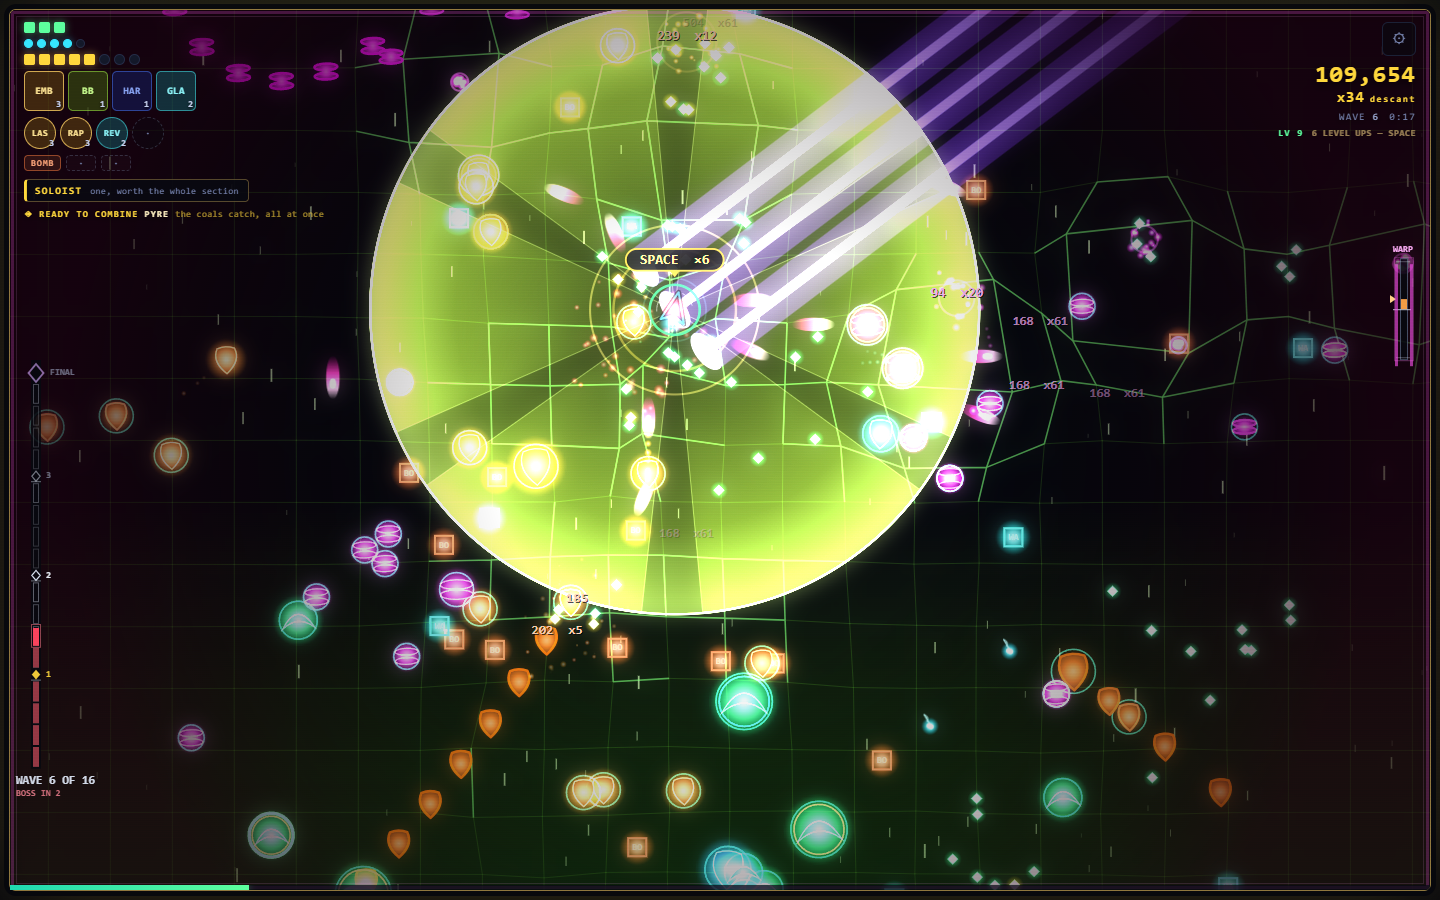
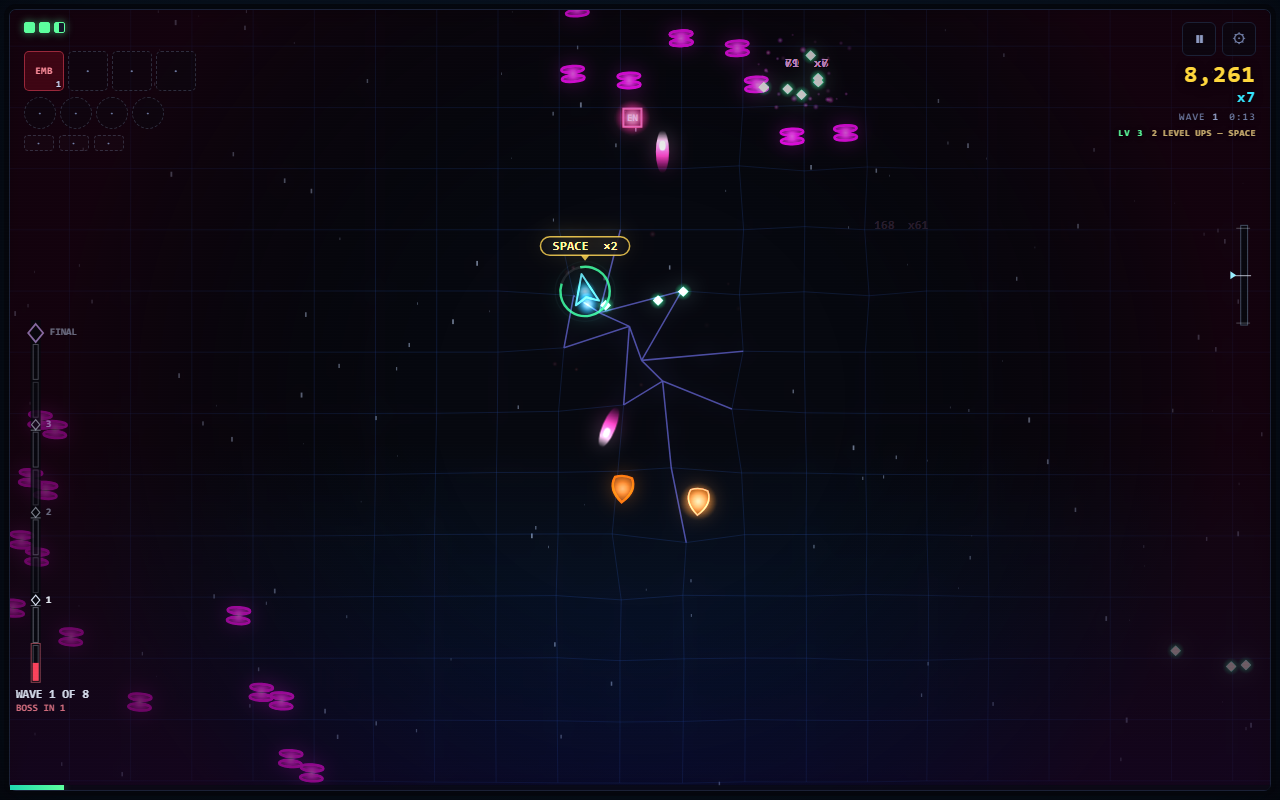
README: half the length, a screenshot of the HUD as it now is
The prose had gone stale in five places and none of them were small: it
still said sixteen waves in four acts with a boss every fourth, twelve
stages of sixteen waves each, warp at "about 9x", a touch row carrying
FOCUS/BOMB/WELL, and X/C keys for a bomb and a black hole. The run is
eight waves with a boss every second one, warp is +50% spawn rate, and
the bombs and wells were deleted yesterday.

Localhost instructions are gone: the game is played at the Pages URL,
which is now the second line of the file.

Numbers re-measured rather than carried over: 30 draftable instruments
(133 defs minus the 103 fused results), 435 pairs, 12 rig items, 8+8
starters, 243 tools in tools/. The two sample figures are wire bytes
(KIT_WIRE_BYTES 266,688 and TOTAL_WIRE_BYTES 9,694) and now say so,
because sitting next to a file path they read as file sizes, which they
are not.

The screenshot was from before lives, stock and shields came out, so it
showed HUD rows that no longer exist. Re-shot from tools/shots.mjs.

126 lines -> 96.

diff --git a/README.md b/README.md
@@ -1,119 +1,87 @@
 # MusicWars
 
-A bullet hell whose soundtrack is not a file. There is no recorded music in
-this repository — not one loop, not one bar. Every note is decided in the
+A bullet hell whose soundtrack is not a file. Every note is decided in the
 browser by [Strudel](https://strudel.cc) and arranged in real time from what is
-happening on screen.
+happening on screen — the weapons you hold are the instruments playing.
 
-Almost all of it is synthesis — oscillators and noise. Two things are sampled,
-and both are fetched at runtime with a synthesised fallback underneath. The
-**drum kit** is nine one-shots from Strudel's drum-machine set — a Roland TR-909
-kick, snare, clap, closed and open hat and rim, an 808 kick and cabasa, a
-LinnDrum hat — 267 KB in all, landing about a quarter of a second after START
-on a warm connection and about three seconds cold; until then, and offline for
-good, the oscillator kit plays (`src/audio/samples.ts`). The other is the
-**bass**, which plays a sampled fingered electric bass
-(`gm_electric_bass_finger`) fetched at runtime from
-[webaudiofontdata](https://felixroos.github.io/webaudiofontdata/): one file,
-9.7 KB gzipped. Nothing waits for it — the game starts on the sawtooth that lane
-always used and swaps the instrument in underneath once the samples are decoded
-— under a second warm, about four seconds cold, measured with all seven roles'
-fonts loading (`src/audio/soundfonts.ts`) — and **if the fetch fails the lane
-keeps its sawtooth**, so the game works with no network at all.
-
-Four other instruments are mapped and ready in
-[`src/audio/soundfonts.ts`](src/audio/soundfonts.ts) and are switched OFF: a
-build that put an oboe on the melody and a choir on the harmony was heard and
-described as "carnival". The table records what each would be and why; enabling
-one is a single line. `node tools/fontcheck.mjs --spectrum` is the measurement.
-
-**The ensemble on stage is the mix.** Each weapon you hold is an instrument
-playing its part, each enemy archetype has a motif, and the density of the
-screen drives the tension model that decides how hard the track goes.
+**[Play it here.](https://dnzckn.github.io/MusicWars/)** Works on a phone; add it
+to your home screen for a full-screen launch.
 
 ![MusicWars](docs/img/gameplay.png)
 
-Play it in a browser at <https://dnzckn.github.io/MusicWars/> — built from
-`master` by the Pages workflow on every push, so it is always the current
-tree. Or run it locally:
+## Controls
 
-```bash
-npm install && npm run dev
-```
+The ship never stops — you only choose how fast.
 
-Then open <http://localhost:5173>. The ship never stops: **W**/**S** are a
-throttle, **A**/**D** or the arrows steer, and the band fires on its own. With a
-mouse or a finger the throttle is binary: hold to boost (hold 1.4 s to warp),
-let go to cruise, and drag backwards while holding to brake; the cursor's side
-of the ship, or the finger's, steers. On a phone the touch row carries FOCUS,
-BOMB and WELL, a LEVEL UP button whenever a level is banked, and the offer's
-REROLL, BANISH and SKIP; a pause button sits beside the settings gear.
-**Shift** focuses, **X** bombs, **C** opens a black hole, and **Space** spends
-the level-ups you have banked. Hold **W** for 1.4 s to WARP — the wave clock
-runs about 9× faster, the stage floods, and the boss comes sooner.
+- **Hold** to boost, with the mouse button or a finger. **Let go** to cruise.
+- **Drag backwards** while holding to brake.
+- The cursor's side of the ship — or the finger's — steers.
+- Hold the boost **1.4 s to WARP**: the stage spawns 50% faster until you pull
+  back. It is the difficulty dial, mid-run.
+- Firing is automatic.
 
----
+Keyboard: **W**/**S** throttle, **A**/**D** steer, **Shift** focus, **Space**
+spends banked level-ups, **P** pauses. On a phone those last two are buttons.
 
-## The game
+## The run
 
-A bullet hell on a treadmill. The field is 3000 wide and unbounded along the
-track; the camera is a rail along the track that follows you across it. Enemies
-never shoot: they come from behind you, they hurt you by touching you, and they
-are slower than you are — dozens on screen in normal play, hundreds alive under
-warp. Killing them drops XP; each level banks an offer of four cards.
+Eight waves, a boss every second one. Three minis, then THE FINAL SET, and
+beating it wins. Enemies never shoot: they arrive from behind you, they are
+slower than you are, and they hurt you by touching you.
 
-A run is 16 waves in four acts, with a boss every fourth wave — three minis and
-then THE FINAL SET, and beating it ends the run. Runs are stages on a set list:
-twelve of them, each the same sixteen waves under more pressure, and every run
-pays points to spend in the shop between them.
+Health is one bar of three units. An ordinary hit costs half a unit, a boss
+costs a whole one, so six touches or three from a conductor.
 
-**30 instruments** built from composable properties — burn, freeze, poison,
-bleed, chain, slow, split, leech, quake — and **103 authored arrangements**
-made by fusing an instrument with a rig item or with another instrument. Every
-one of the 435 instrument pairs combines into something; the unauthored ones
-inherit both parents' properties. A new save drafts 8 of the instruments and 8
-of the 12 rig items; the rest are bought in the shop.
+Killing things drops XP, and each level banks a choice of four cards. You hold
+four instruments and four rig items, so once the chairs are full the only way to
+grow is to fuse what you already have — which frees a chair. **30 instruments**
+built from composable properties (burn, freeze, chain, leech, quake and the
+rest) and **103 authored arrangements**; all 435 pairs combine into something,
+the unauthored ones inheriting both parents.
 
-Fusing frees a slot. You hold four instruments and four rig items, so the only
-way to keep growing is to combine what you already have.
+Runs are stages on a set list — twelve of them, the same eight waves under more
+pressure — and each run pays points into a shop that unlocks the rest of the
+roster. A new save starts with 8 instruments and 8 rig items.
 
-The design owes its shape to Vampire Survivors and Ball x Pit, and the weapon
-mechanics are ported from them rather than invented — see
+The design owes its shape to Vampire Survivors and Ball x Pit; see
 [`docs/plan-refactor-3.md`](docs/plan-refactor-3.md) §9.
 
 ## The music
 
-`src/audio/layers.ts` builds every lane; `src/audio/director.ts` turns game
-state into musical state. The simulation never talks to Strudel — it emits
-events and publishes a numeric snapshot, and the director reads it.
+`src/audio/layers.ts` builds every lane and `src/audio/director.ts` turns game
+state into musical state. The simulation never talks to Strudel: it emits events
+and publishes a numeric snapshot, and the director reads that.
 
-The bass is the protagonist: the sampled pluck with a wobble under it. A motor
-pulse keeps the clock and never drops out, a stab comps the chord's guide
-tones, the lead is the line that follows you, and the kit plays around them.
+The bass is the protagonist, a sampled pluck with a wobble under it. A motor
+pulse keeps the clock, a stab comps the chord's guide tones, the lead follows
+you, and the kit plays around them. Enemy archetypes carry motifs, and how
+crowded the screen is decides how hard the track goes.
+
+Two things are sampled, and both stream at runtime with a synthesised fallback
+underneath so the game still plays offline: a nine-piece drum-machine kit
+(267 KB on the wire) and a fingered electric bass (9.7 KB). Everything else is
+oscillators and noise.
 
 Weapons are lanes in the mix, so a loadout is audible. Some read the transport
-back: RASP fires only on the off-beat, SORDINO silences two of your own lanes
-for two bars and banks the damage, INTERLUDE takes the whole band out for two
-bars.
+back: RASP fires only on the off-beat, SORDINO silences two of your own lanes to
+bank the damage, INTERLUDE takes the whole band out for two bars.
 
-## Development
+## Working on it
 
 ```bash
-npm run dev        # vite, localhost:5173
-npm run build      # typecheck + bundle
-npm run verify     # the full gate suite
+npm install
+npm run build     # typecheck + bundle
+npm run verify    # the gate suite
 ```
 
-Around 200 verification tools live in `tools/`, most written after a specific
+Over 240 verification tools live in `tools/`, most written after a specific
 defect got past the previous ones. `tools/capture.mjs` renders the real audio
-chain to a WAV; `tools/arena.mjs` plays 20-minute bot runs and reports density
-and encirclement; `tools/builds.mjs` measures whether the card you pick changes
-the run.
+chain to a WAV; `tools/arena.mjs` plays bot runs and reports density and
+encirclement; `tools/builds.mjs` measures whether the card you pick changes the
+run.
 
 **Read [`AGENTS.md`](AGENTS.md) before changing anything.** It records the traps
 — several "obvious" improvements are documented there as measured failures.
-
-## Layout
 
 | path | what it is |
 |---|---|
@@ -124,3 +92,5 @@ the run.
 | `src/render/` | canvas renderer and HUD |
 | `tools/` | the verification suite |
 | `docs/` | plans, research, and what each measurement contradicted |
+
+Pushing to `master` rebuilds and republishes the site automatically.
